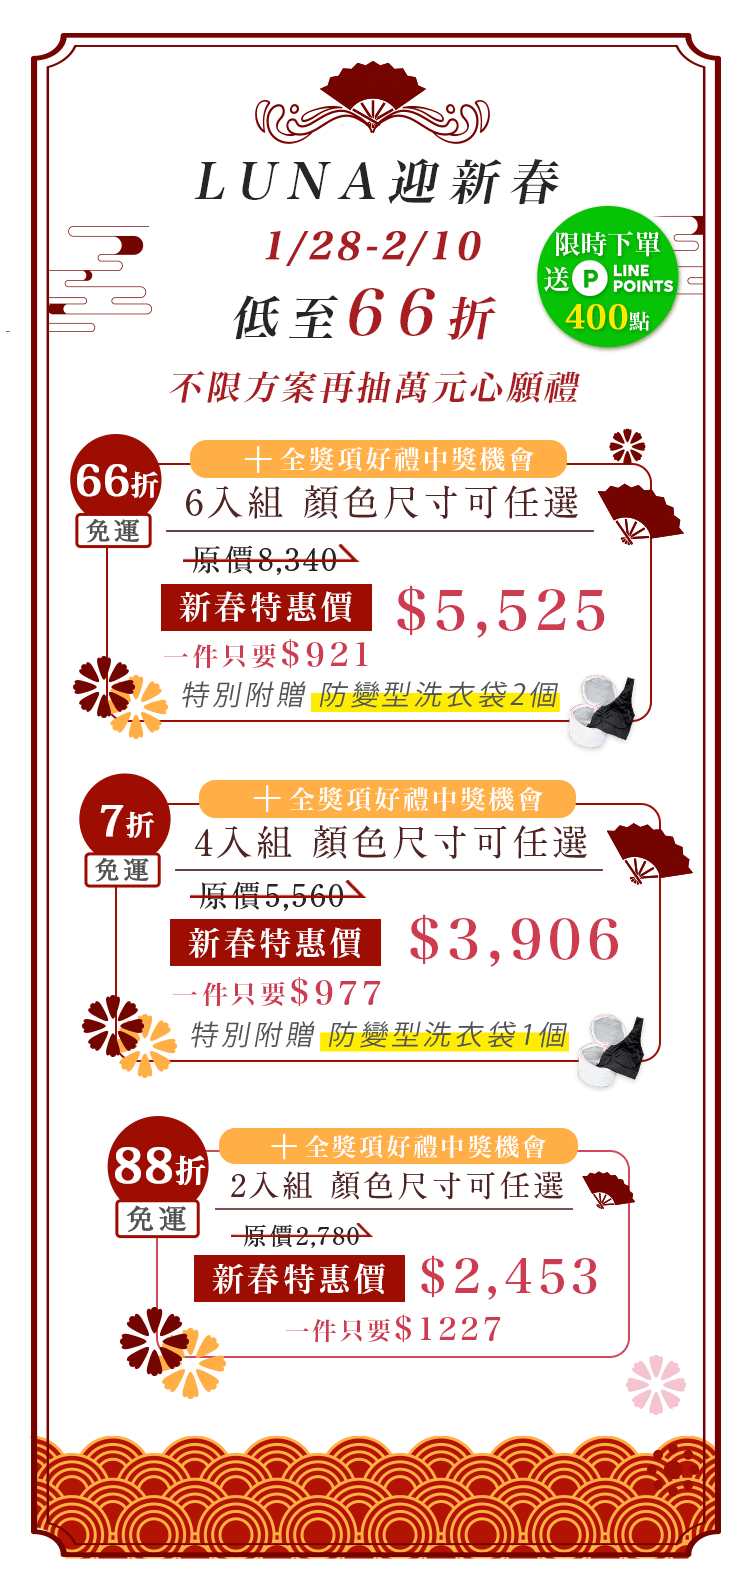
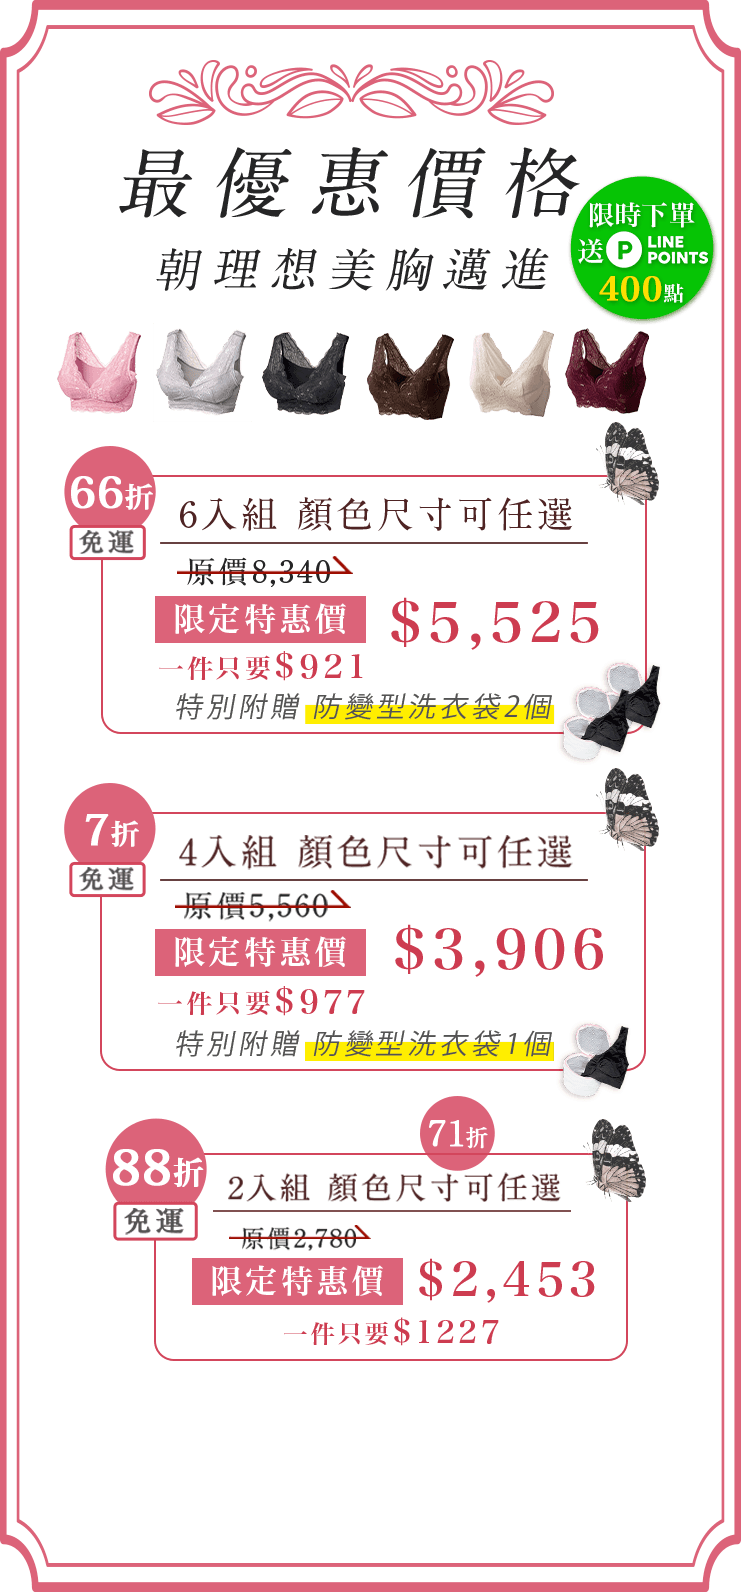
20220216_delete lottery

diff --git a/js/all.js b/js/all.js
@@ -16,15 +16,15 @@ $(document).ready(function () {
   });
 
   //週年慶活動辦法下拉選單
-  $(".anniversary_2,.SP_anniversary_2").hide();
-  $(".anniversary_1, .SP_anniversary_1").click(function (e) {
-    e.preventDefault();
-    $(".anniversary_2,.SP_anniversary_2").toggle();
-  });
-  $(".anniversary_2, .SP_anniversary_2").click(function (e) {
-    e.preventDefault();
-    $(".anniversary_2, .SP_anniversary_2").hide();
-  });
+  // $(".anniversary_2,.SP_anniversary_2").hide();
+  // $(".anniversary_1, .SP_anniversary_1").click(function (e) {
+  //   e.preventDefault();
+  //   $(".anniversary_2,.SP_anniversary_2").toggle();
+  // });
+  // $(".anniversary_2, .SP_anniversary_2").click(function (e) {
+  //   e.preventDefault();
+  //   $(".anniversary_2, .SP_anniversary_2").hide();
+  // });
 
   //偵測sns line btn 手機版還是電腦版，連結不同
   // var vw=$(window).width();

diff --git a/index.html b/index.html
@@ -93,8 +93,6 @@
                     </div>
                     <img src="images/01_banner.png" alt="">
                     <img src="images/01.png" alt="">
-                    <img class="anniversary_1" src="images/lottery.png" alt="" style="cursor: pointer;">
-                    <img class="anniversary_2" src="images/lottery-2.png" alt="" style="display:none;">
                     <img src="images/02.png" alt="">
                     <div class="video_box">
                         <img src="images/03.png" alt="">
